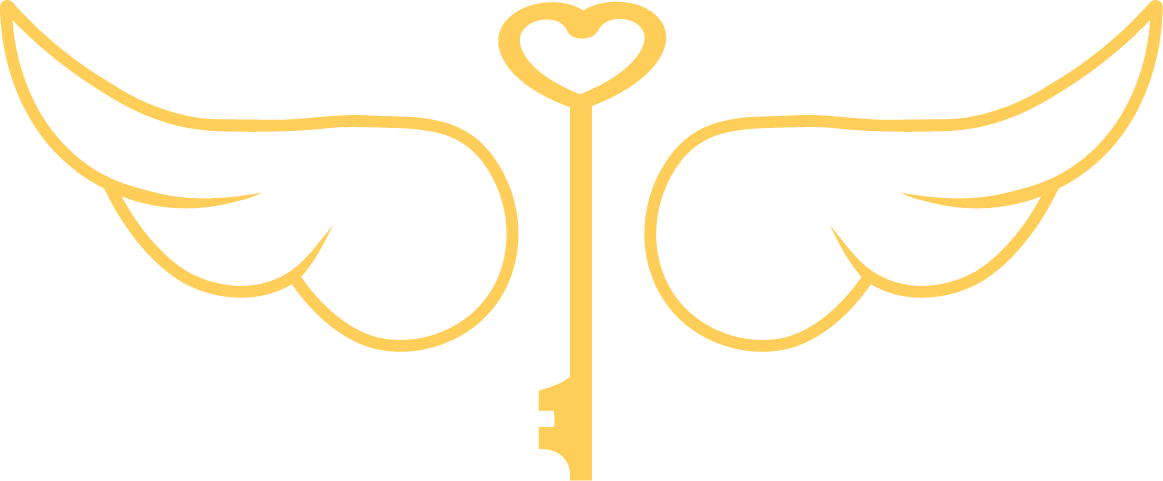
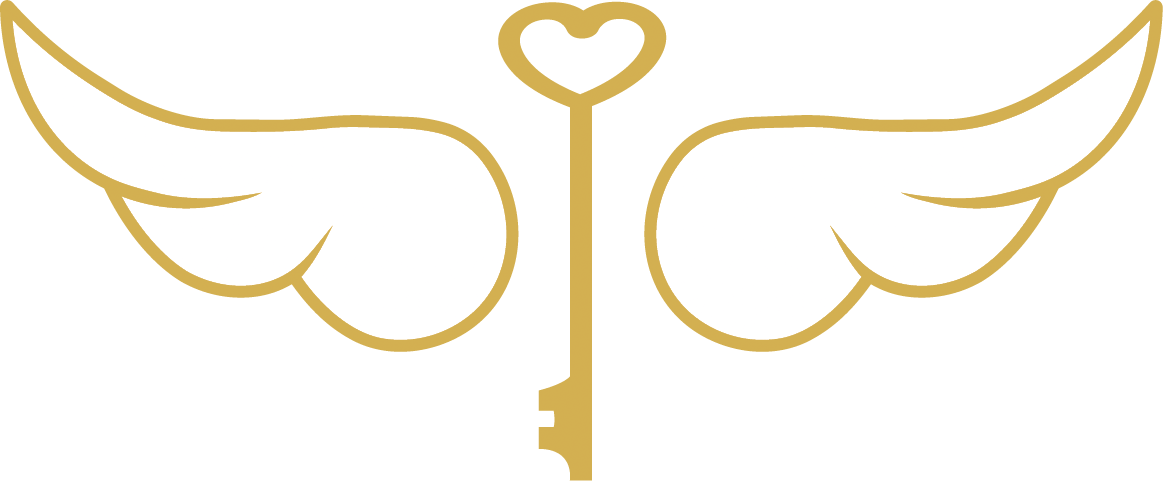
change name of the app and color of the key. Add an info modal

Changed region(s): [[0.0, 0.0, 0.5881, 0.9979], [0.5881, 0.0, 1.0, 0.7484], [0.5572, 0.3119, 0.5881, 0.6549]]

diff --git a/app/index.tsx b/app/index.tsx
@@ -4,15 +4,29 @@ import { Image } from 'expo-image';
 import { LinearGradient } from 'expo-linear-gradient';
 import { router, useFocusEffect } from 'expo-router';
 import * as WebBrowser from 'expo-web-browser';
-import { useCallback, useRef } from 'react';
-import { Animated, Pressable, StyleSheet, Text, View } from 'react-native';
-import { SafeAreaView } from 'react-native-safe-area-context';
+import { useCallback, useRef, useState } from 'react';
+import { Animated, Linking, Modal, Pressable, StyleSheet, Text, View } from 'react-native';
+import { SafeAreaView, useSafeAreaInsets } from 'react-native-safe-area-context';
 
 import clefSource from '../assets/images/clef.png';
 
 export default function HomeScreen() {
   const { drawnId, draw } = useOracle();
+  const insets = useSafeAreaInsets();
   const fadeAnim = useRef(new Animated.Value(0)).current;
+  const [modalVisible, setModalVisible] = useState(false);
+  const modalOpacity = useRef(new Animated.Value(0)).current;
+
+  const openModal = () => {
+    setModalVisible(true);
+    Animated.timing(modalOpacity, { toValue: 1, duration: 300, useNativeDriver: true }).start();
+  };
+
+  const closeModal = () => {
+    Animated.timing(modalOpacity, { toValue: 0, duration: 300, useNativeDriver: true }).start(() => {
+      setModalVisible(false);
+    });
+  };
 
   useFocusEffect(
     useCallback(() => {
@@ -88,6 +102,47 @@ export default function HomeScreen() {
         </View>
 
       </Animated.View>
+
+      {/* ── Bouton ⓘ ── */}
+      <Pressable style={[styles.infoButton, { top: insets.top + 0 }]} onPress={openModal} hitSlop={12}>
+        <Text style={styles.infoIcon}>ⓘ</Text>
+      </Pressable>
+
+      {/* ── Modal À propos ── */}
+      <Modal visible={modalVisible} transparent animationType="none" onRequestClose={closeModal}>
+        <Animated.View style={[styles.modalOverlay, { opacity: modalOpacity }]}>
+          <View style={styles.modalBox}>
+            <Pressable style={styles.modalCloseButton} onPress={closeModal} hitSlop={12}>
+              <Text style={styles.modalCloseText}>✕</Text>
+            </Pressable>
+            <Text style={styles.modalText}>
+              {'Application développée avec '}
+              <Text style={styles.modalHeart}>{'♥'}</Text>
+              {' par\nStéphanie Meusling'}
+            </Text>
+            <Pressable hitSlop={8} onPress={() => Linking.openURL('mailto:smeusling@gmail.com')}>
+              <View style={styles.contactRow}>
+                <LinearGradient
+                  colors={[theme.colors.primaryTransparent, theme.colors.primary] as [string, string]}
+                  start={{ x: 0, y: 0.5 }}
+                  end={{ x: 1, y: 0.5 }}
+                  style={styles.gradientLine}
+                />
+                <Text style={styles.separatorDiamond}>✦</Text>
+                <Text style={styles.modalLink}>Contacter la développeuse</Text>
+                <Text style={styles.separatorDiamond}>✦</Text>
+                <LinearGradient
+                  colors={[theme.colors.primary, theme.colors.primaryTransparent] as [string, string]}
+                  start={{ x: 0, y: 0.5 }}
+                  end={{ x: 1, y: 0.5 }}
+                  style={styles.gradientLine}
+                />
+              </View>
+            </Pressable>
+          </View>
+        </Animated.View>
+      </Modal>
+
     </SafeAreaView>
   );
 }
@@ -140,7 +195,7 @@ const styles = StyleSheet.create({
   separatorDiamond: {
     fontFamily: 'CormorantGaramond_400Regular',
     fontSize: 12,
-    color: theme.colors.gold,
+    color: theme.colors.primary,
   },
   gradientLine: {
     flex: 1,
@@ -206,5 +261,83 @@ const styles = StyleSheet.create({
     fontSize: 15,
     color: theme.colors.textLight,
     opacity: 0.5,
+  },
+
+  /* ── Bouton ⓘ ── */
+  infoButton: {
+    position: 'absolute',
+    right: 20,
+    width: 34,
+    height: 34,
+    borderRadius: 17,
+    backgroundColor: theme.colors.backgroundFrosted,
+    alignItems: 'center',
+    justifyContent: 'center',
+  },
+  infoIcon: {
+    fontFamily: 'Lato_400Regular',
+    fontSize: 18,
+    color: theme.colors.textLight,
+    lineHeight: 22,
+  },
+
+  /* ── Modal ── */
+  modalOverlay: {
+    flex: 1,
+    backgroundColor: 'rgba(0,0,0,0.4)',
+    alignItems: 'center',
+    justifyContent: 'center',
+    padding: 32,
+  },
+  modalBox: {
+    backgroundColor: theme.colors.background,
+    borderRadius: 24,
+    paddingTop: 38,
+    paddingBottom: 24,
+    paddingHorizontal: 28,
+    width: '100%',
+    alignItems: 'center',
+    gap: 16,
+  },
+  modalCloseButton: {
+    position: 'absolute',
+    top: 12,
+    right: 12,
+    width: 28,
+    height: 28,
+    borderRadius: 14,
+    backgroundColor: theme.colors.backgroundFrosted,
+    alignItems: 'center',
+    justifyContent: 'center',
+  },
+  modalCloseText: {
+    fontFamily: 'Lato_400Regular',
+    fontSize: 15,
+    color: theme.colors.primary,
+    lineHeight: 17,
+  },
+  modalText: {
+    fontFamily: 'Lato_400Regular',
+    fontSize: 16,
+    lineHeight: 26,
+    color: theme.colors.text,
+    textAlign: 'center',
+  },
+  modalHeart: {
+    fontFamily: 'Lato_400Regular',
+    fontSize: 16,
+    color: theme.colors.gold,
+  },
+  contactRow: {
+    flexDirection: 'row',
+    alignItems: 'center',
+    width: '100%',
+    gap: 8,
+    marginTop: 10,
+  },
+  modalLink: {
+    fontFamily: 'CormorantGaramond_600SemiBold_Italic',
+    fontSize: 19,
+    color: theme.colors.primary,
   },
 });

diff --git a/constants/theme.ts b/constants/theme.ts
@@ -9,6 +9,7 @@ export const theme = {
     goldBorder: 'rgba(201,168,76,0.35)',
     backgroundFrosted: 'rgba(250,240,238,0.85)',
     backgroundTransparent: 'rgba(250,240,238,0)',
+    primaryTransparent: 'rgba(196,133,122,0)',
     text: '#5C3D35',
     textLight: '#9E7B6E',
   },

diff --git a/hooks/useOracle.ts b/hooks/useOracle.ts
@@ -1,6 +1,6 @@
 import { useCallback, useState } from 'react';
 
-const CARD_COUNT = 30;
+const CARD_COUNT = 33;
 
 export function useOracle() {
   const [drawnId, setDrawnId] = useState<string | null>(null);
